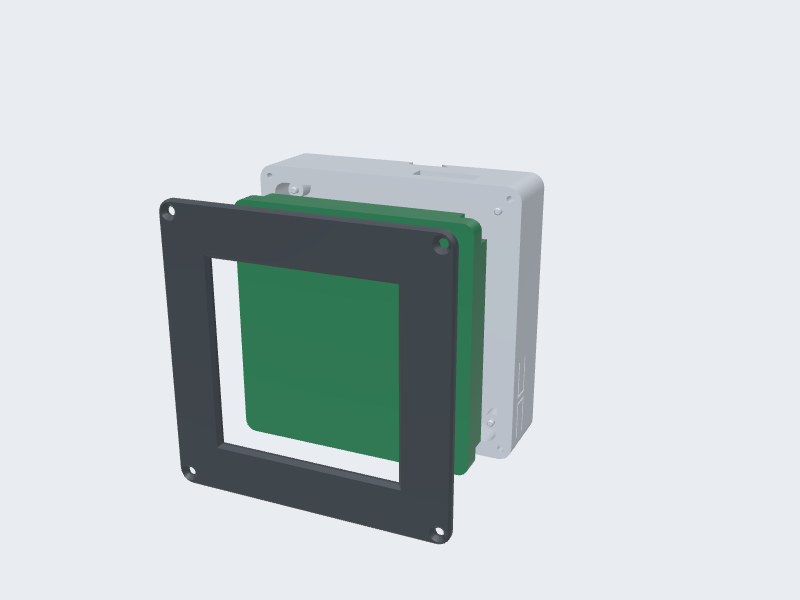
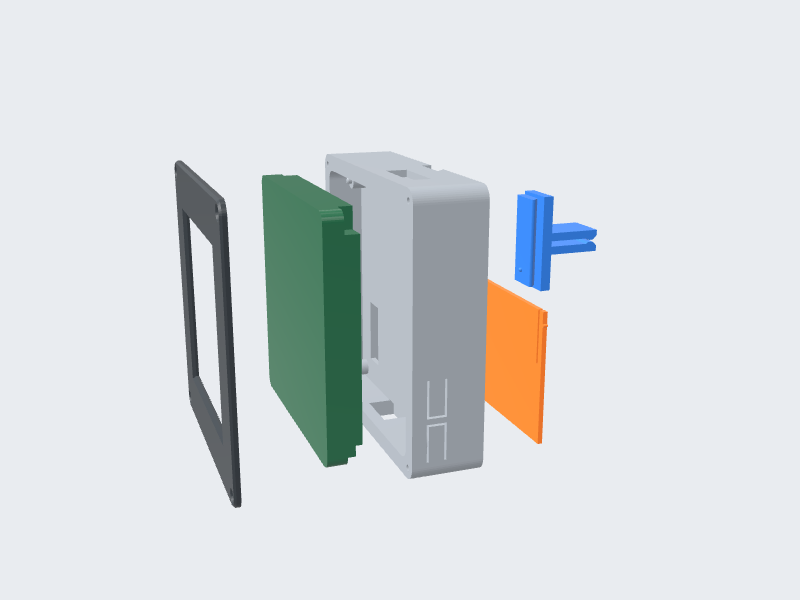
3D-Viewer: Review-Korrekturen (Schließen während Laden, Generationszähler, Barrierefreiheit, Touch-Hinweis, Explosionskamera)
Claude-Session: https://claude.ai/code/session_01XLNHshKJu2qfQvXHqNv1vg

Changed region(s): [[0.1875, 0.24, 0.75, 0.93]]

diff --git a/web/cad-lightbox.js b/web/cad-lightbox.js
@@ -10,9 +10,12 @@ const MODELS = [
   { id: 'vent_clip', label: 'Lüftungs-Clip' },
   { id: 'assembly_exploded', label: 'Explosionsansicht' },
 ];
-const HINT = 'Ziehen: drehen · Scrollen: zoomen · Rechtsklick: verschieben';
+const HINT_MOUSE = 'Ziehen: drehen · Scrollen: zoomen · Rechtsklick: verschieben';
+const HINT_TOUCH = 'Ziehen: drehen · Zwei Finger: zoomen/verschieben';
+const isTouch = () => window.matchMedia('(pointer: coarse)').matches;
 
-let viewer = null; // { dialog, ... } einmal aufgebaut, bei jedem Oeffnen neu gestartet
+let viewer = null; // DOM einmal aufgebaut, bei jedem Oeffnen neu gestartet
+let gen = 0;       // Generationszaehler: jedes Oeffnen/Schliessen erhoeht ihn, veraltete awaits brechen ab
 let threePromise = null;
 
 function loadThree() {
@@ -39,26 +42,23 @@ function buildDom() {
   const dialog = el('dialog', 'cad-dialog');
   dialog.setAttribute('aria-label', '3D-Ansicht des Gehäuses');
   const stage = el('div', 'cad-stage');
-  const ui = el('div', 'cad-ui');
   const close = el('button', 'cad-close', '×');
   close.type = 'button';
   close.setAttribute('aria-label', 'Schließen');
   const bar = el('div', 'cad-bar');
   const tabs = el('div', 'cad-tabs');
-  tabs.setAttribute('role', 'tablist');
-  const hint = el('div', 'cad-hint', HINT);
+  tabs.setAttribute('aria-label', 'Modell wählen');
+  const hint = el('div', 'cad-hint', HINT_MOUSE);
   const status = el('div', 'cad-status');
   status.setAttribute('role', 'status');
   bar.append(tabs, hint);
-  ui.append(close, status, bar);
-  dialog.append(stage, ui);
+  dialog.append(stage, close, status, bar);
   document.body.append(dialog);
 
   const buttons = MODELS.map((m) => {
     const b = el('button', 'cad-tab');
     b.type = 'button';
     b.dataset.model = m.id;
-    b.setAttribute('role', 'tab');
     const img = el('img');
     img.alt = '';
     img.loading = 'lazy';
@@ -68,7 +68,7 @@ function buildDom() {
     tabs.append(b);
     return b;
   });
-  return { dialog, stage, close, tabs, buttons, status };
+  return { dialog, stage, close, tabs, buttons, status, hint };
 }
 
 function disposeObject(root) {
@@ -86,33 +86,46 @@ function disposeObject(root) {
 async function open(initial) {
   if (!viewer) {
     viewer = buildDom();
-    viewer.dialog.addEventListener('click', (e) => { if (e.target === viewer.dialog) viewer.dialog.close(); });
     viewer.close.addEventListener('click', () => viewer.dialog.close());
   }
   const v = viewer;
   const { dialog, stage, status, buttons } = v;
   if (dialog.open) return;
+  const my = ++gen;
+  const stale = () => my !== gen;
+  let cleanup = null; // wird nach dem Aufbau der Szene gesetzt
   dialog.showModal();
   document.documentElement.classList.add('cad-open');
   dialog.dataset.ready = '';
+  v.hint.textContent = isTouch() ? HINT_TOUCH : HINT_MOUSE;
   status.textContent = 'Lade 3D-Viewer …';
   status.className = 'cad-status';
+  // einziger Close-Handler (Esc, X, close()), sofort registriert: ungueltig machen + aufraeumen
+  dialog.addEventListener('close', () => {
+    gen++;
+    document.documentElement.classList.remove('cad-open');
+    dialog.dataset.ready = '';
+    if (cleanup) cleanup();
+  }, { once: true });
 
   let lib;
   try {
     lib = await loadThree();
   } catch (e) {
-    return fail('3D-Viewer konnte nicht geladen werden.');
+    if (!stale()) fail('3D-Viewer konnte nicht geladen werden.');
+    return;
   }
-  if (!dialog.open) return;
+  if (stale()) return;
   const { THREE, OrbitControls, GLTFLoader, RoomEnvironment } = lib;
 
   let renderer;
   try {
     renderer = new THREE.WebGLRenderer({ antialias: true, alpha: false, powerPreference: 'high-performance' });
   } catch (e) {
-    return fail('WebGL ist in diesem Browser nicht verfügbar – die 3D-Ansicht kann nicht angezeigt werden.');
+    fail('WebGL ist in diesem Browser nicht verfügbar – die 3D-Ansicht kann nicht angezeigt werden.');
+    return;
   }
+  renderer.domElement.setAttribute('aria-label', '3D-Ansicht des Gehäuses, mit der Maus oder per Touch drehbar');
   renderer.setPixelRatio(Math.min(window.devicePixelRatio || 1, 2));
   stage.append(renderer.domElement);
 
@@ -151,14 +164,15 @@ async function open(initial) {
   ro.observe(stage);
   resize();
 
-  function fit(obj) {
+  function fit(obj, id) {
     const box = new THREE.Box3().setFromObject(obj);
     const sphere = box.getBoundingSphere(new THREE.Sphere());
     const vfov = THREE.MathUtils.degToRad(camera.fov);
     const hfov = 2 * Math.atan(Math.tan(vfov / 2) * camera.aspect);
     const dist = (sphere.radius / Math.sin(Math.min(vfov, hfov) / 2)) * 1.05;
     // Vorderseite (+Z) zum Betrachter, leicht von rechts oben
-    const dir = new THREE.Vector3(0.45, 0.38, 1).normalize();
+    // Explosionsansicht: seitlich schraeg, damit alle Teile (auch hinten) sichtbar sind
+    const dir = (id === 'assembly_exploded' ? new THREE.Vector3(1.5, 0.45, 0.55) : new THREE.Vector3(0.45, 0.38, 1)).normalize();
     camera.position.copy(sphere.center).addScaledVector(dir, dist);
     camera.near = dist / 100;
     camera.far = dist * 20;
@@ -174,17 +188,17 @@ async function open(initial) {
   async function show(id) {
     const my = ++token;
     current = id;
-    buttons.forEach((b) => b.setAttribute('aria-selected', String(b.dataset.model === id)));
+    buttons.forEach((b) => b.setAttribute('aria-pressed', String(b.dataset.model === id)));
     dialog.dataset.ready = '';
     status.className = 'cad-status';
     status.textContent = 'Modell wird geladen …';
     if (model) { scene.remove(model); disposeObject(model); model = null; }
     try {
       const gltf = await loader.loadAsync(`${BASE}${id}.glb`);
-      if (my !== token || disposed) { disposeObject(gltf.scene); return; }
+      if (my !== token || disposed || stale()) { disposeObject(gltf.scene); return; }
       model = gltf.scene;
       scene.add(model);
-      fit(model);
+      fit(model, id);
       status.textContent = '';
       status.className = 'cad-status';
       renderer.render(scene, camera);
@@ -210,13 +224,12 @@ async function open(initial) {
   }
   loop();
 
-  function teardown() {
+  cleanup = function teardown() {
     disposed = true;
     cancelAnimationFrame(raf);
     ro.disconnect();
     mq.removeEventListener('change', applyTheme);
     v.tabs.removeEventListener('click', onTab);
-    dialog.removeEventListener('close', teardown);
     controls.dispose();
     if (model) disposeObject(model);
     envTex.dispose();
@@ -224,17 +237,13 @@ async function open(initial) {
     renderer.dispose();
     renderer.forceContextLoss();
     renderer.domElement.remove();
-    document.documentElement.classList.remove('cad-open');
-    dialog.dataset.ready = '';
-  }
-  dialog.addEventListener('close', teardown);
+  };
 
   show(initial);
 
   function fail(msg) {
     status.textContent = msg;
     status.className = 'cad-status cad-error';
-    dialog.addEventListener('close', () => document.documentElement.classList.remove('cad-open'), { once: true });
   }
 }
 

diff --git a/web/style.css b/web/style.css
@@ -24,19 +24,17 @@ summary{cursor:pointer;font-weight:600}
 .cad-dialog::backdrop{background:rgba(0,0,0,.6)}
 @media (prefers-color-scheme:dark){.cad-dialog{background:#141920;color:#e7eaee}}
 html.cad-open{overflow:hidden}
-.cad-dialog{--cad-bar:8.6rem}
-.cad-stage{position:absolute;inset:0 0 var(--cad-bar) 0;touch-action:none}
-.cad-stage canvas{display:block;outline:0}
-.cad-ui{position:absolute;inset:0;pointer-events:none;display:flex;flex-direction:column;justify-content:flex-end}
-.cad-ui>*{pointer-events:auto}
+.cad-dialog[open]{display:flex;flex-direction:column}
+.cad-stage{flex:1 1 0;min-height:0;position:relative;touch-action:none}
+.cad-stage canvas{display:block;outline:0;position:absolute;inset:0}
 .cad-close{position:absolute;top:12px;right:12px;width:44px;height:44px;border-radius:50%;border:1px solid var(--line);background:var(--card);color:var(--fg);font:28px/1 system-ui,sans-serif;cursor:pointer}
 .cad-status{position:absolute;top:50%;left:50%;transform:translate(-50%,-50%);max-width:min(90vw,28rem);text-align:center;background:var(--card);color:var(--fg);border:1px solid var(--line);border-radius:10px;padding:.6rem 1rem;pointer-events:none}
 .cad-status:empty{display:none}
 .cad-error{background:var(--warn);border-color:var(--warn-line)}
-.cad-bar{display:flex;flex-direction:column;gap:6px;padding:8px 12px 12px;background:linear-gradient(transparent,color-mix(in srgb,var(--bg) 85%,transparent) 40%)}
+.cad-bar{flex:none;display:flex;flex-direction:column;gap:6px;padding:8px 12px 12px;background:color-mix(in srgb,var(--bg) 92%,transparent)}
 .cad-tabs{display:flex;gap:8px;overflow-x:auto;padding-bottom:2px;scrollbar-width:thin}
 .cad-tab{flex:0 0 auto;display:flex;flex-direction:column;align-items:center;gap:2px;min-width:5.5rem;padding:4px 6px;font:inherit;font-size:.85rem;background:var(--card);color:var(--fg);border:2px solid var(--line);border-radius:8px;cursor:pointer}
 .cad-tab img{width:80px;height:60px;object-fit:cover;border-radius:4px;background:var(--bg)}
-.cad-tab[aria-selected=true]{border-color:var(--accent)}
+.cad-tab[aria-pressed=true]{border-color:var(--accent)}
 .cad-hint{text-align:center;color:var(--muted);font-size:.8rem}
-@media (max-width:30rem){.cad-dialog{--cad-bar:7.6rem}.cad-tab img{width:60px;height:45px}.cad-tab{min-width:4.5rem;font-size:.75rem}}
+@media (max-width:30rem){.cad-tab img{width:60px;height:45px}.cad-tab{min-width:4.5rem;font-size:.75rem}}

diff --git a/enclosure/enclosure.py b/enclosure/enclosure.py
@@ -638,10 +638,15 @@ def main():
     with open(os.path.join(OUT, "check_report.txt"), "w") as f:
         f.write("\n".join(rep) + "\n")
     try:   # optional: GLB fuer den Web-3D-Viewer (braucht cascadio, trimesh)
-        import step_to_glb
-        step_to_glb.main()
+        import cascadio, trimesh  # noqa: F401
     except ImportError:
         print("cascadio/trimesh fehlt -> GLB uebersprungen (siehe step_to_glb.py)")
+    else:
+        try:
+            import step_to_glb
+            step_to_glb.main()
+        except Exception as exc:   # GLB-Export darf Pruefergebnis/Exit-Code nicht beeinflussen
+            print(f"WARNUNG: GLB-Export fehlgeschlagen: {exc}")
     return 0 if ok else 1
 
 if __name__ == "__main__":
